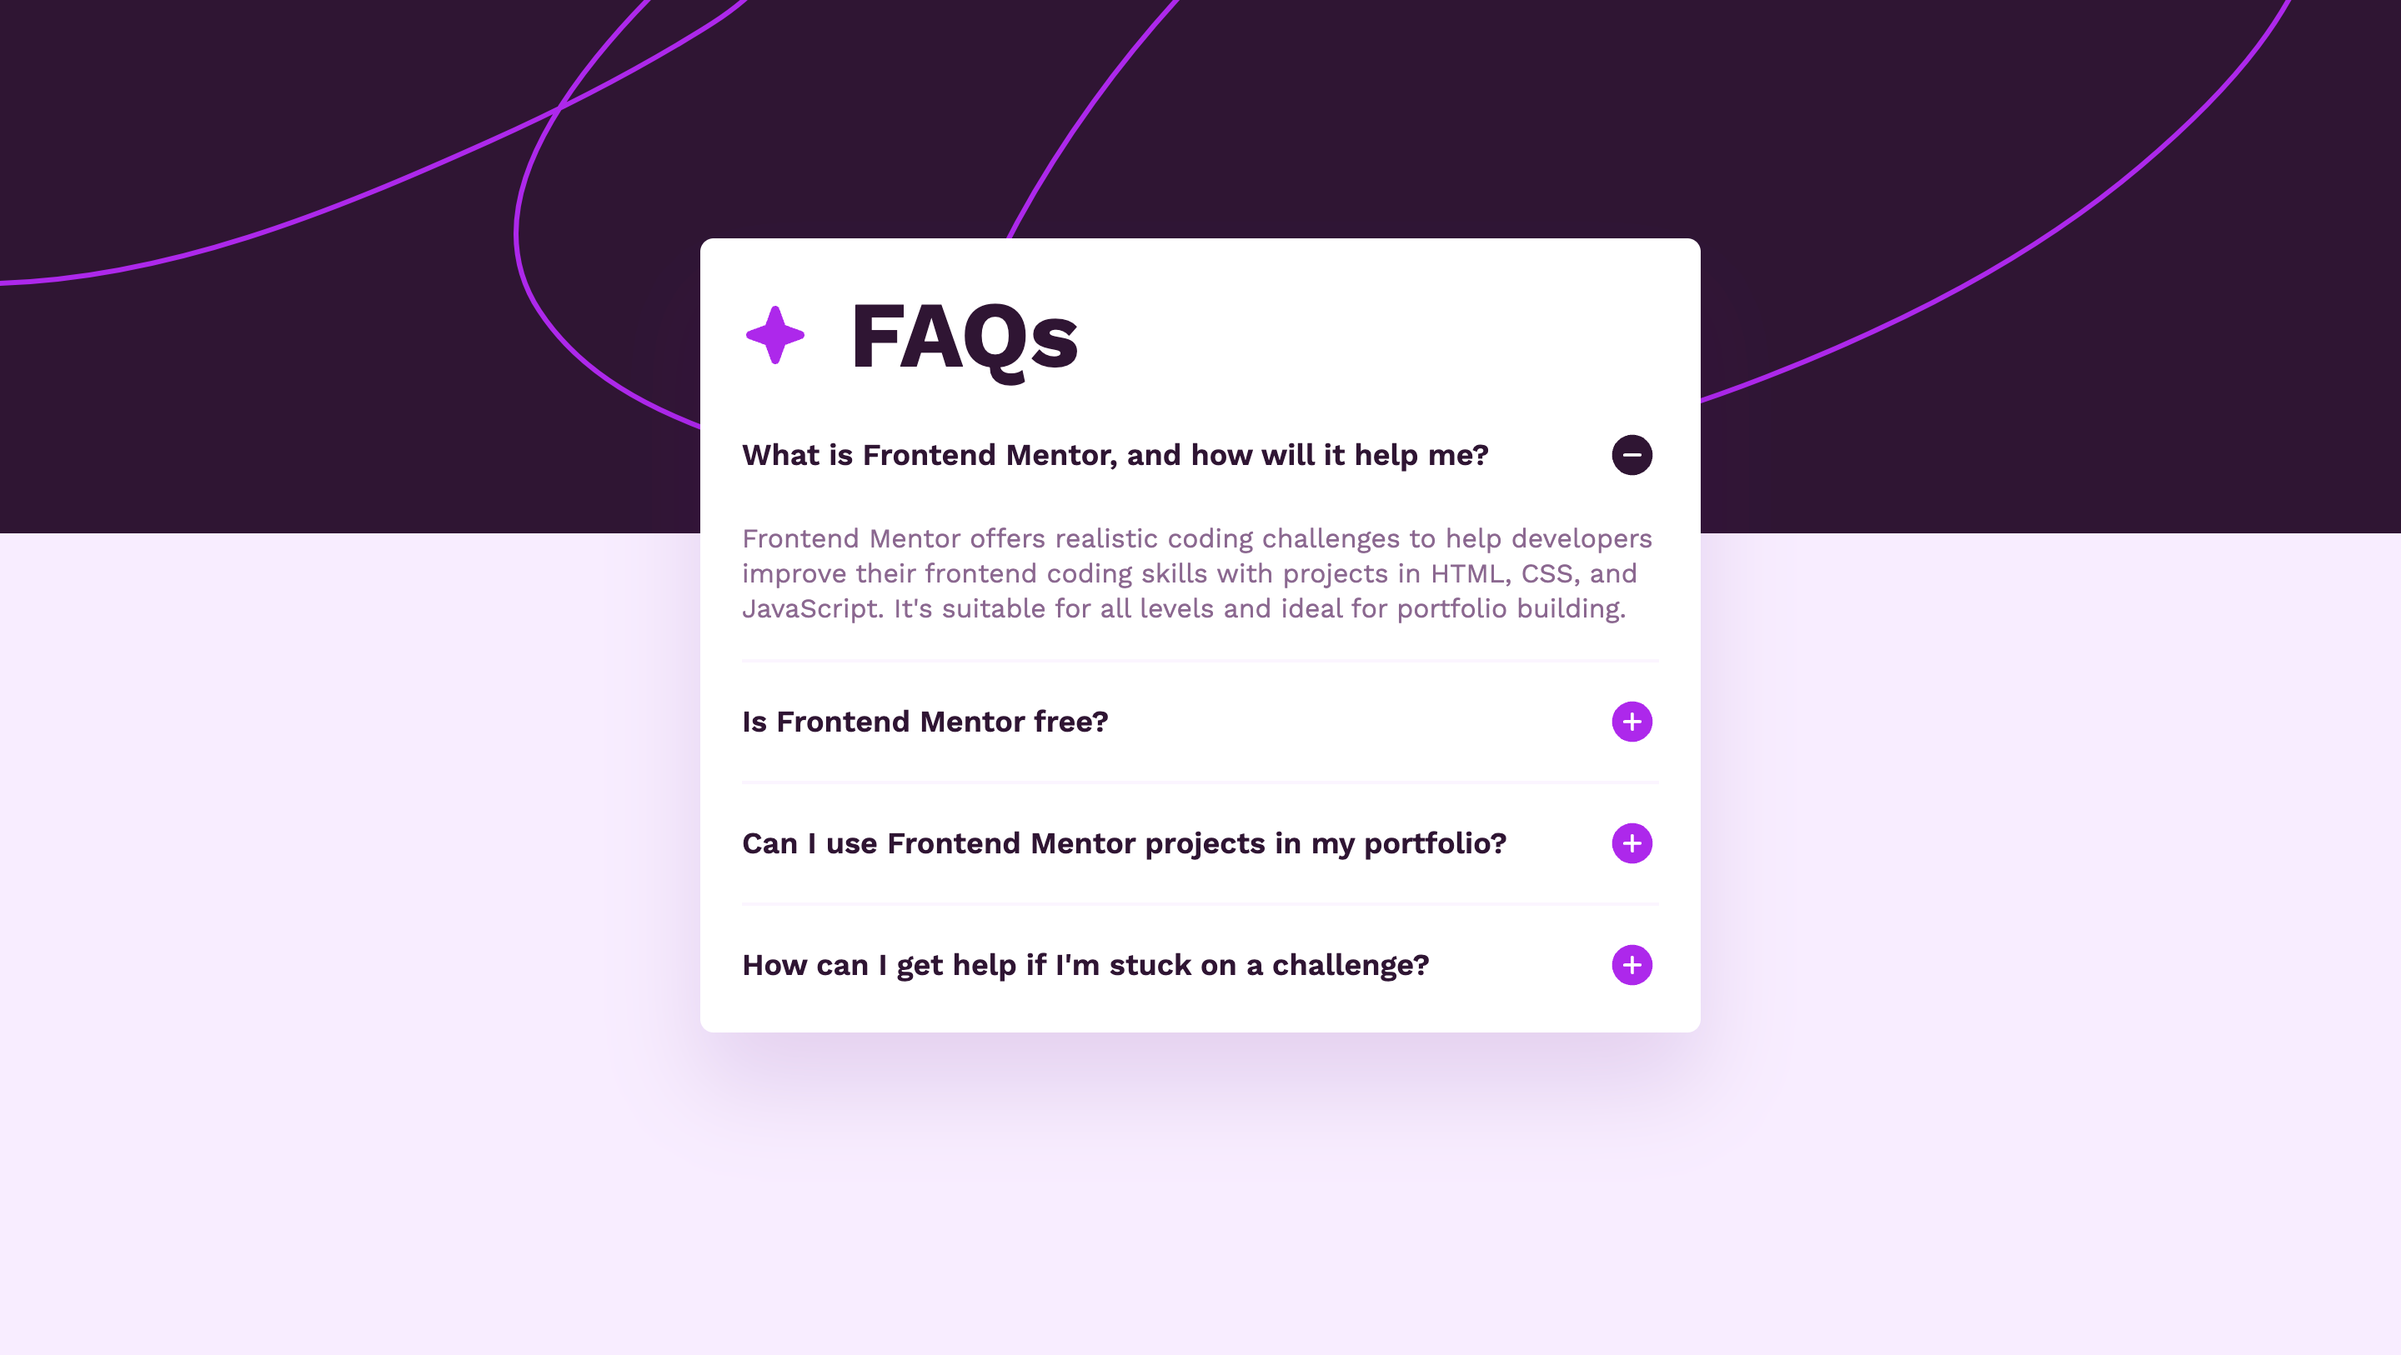
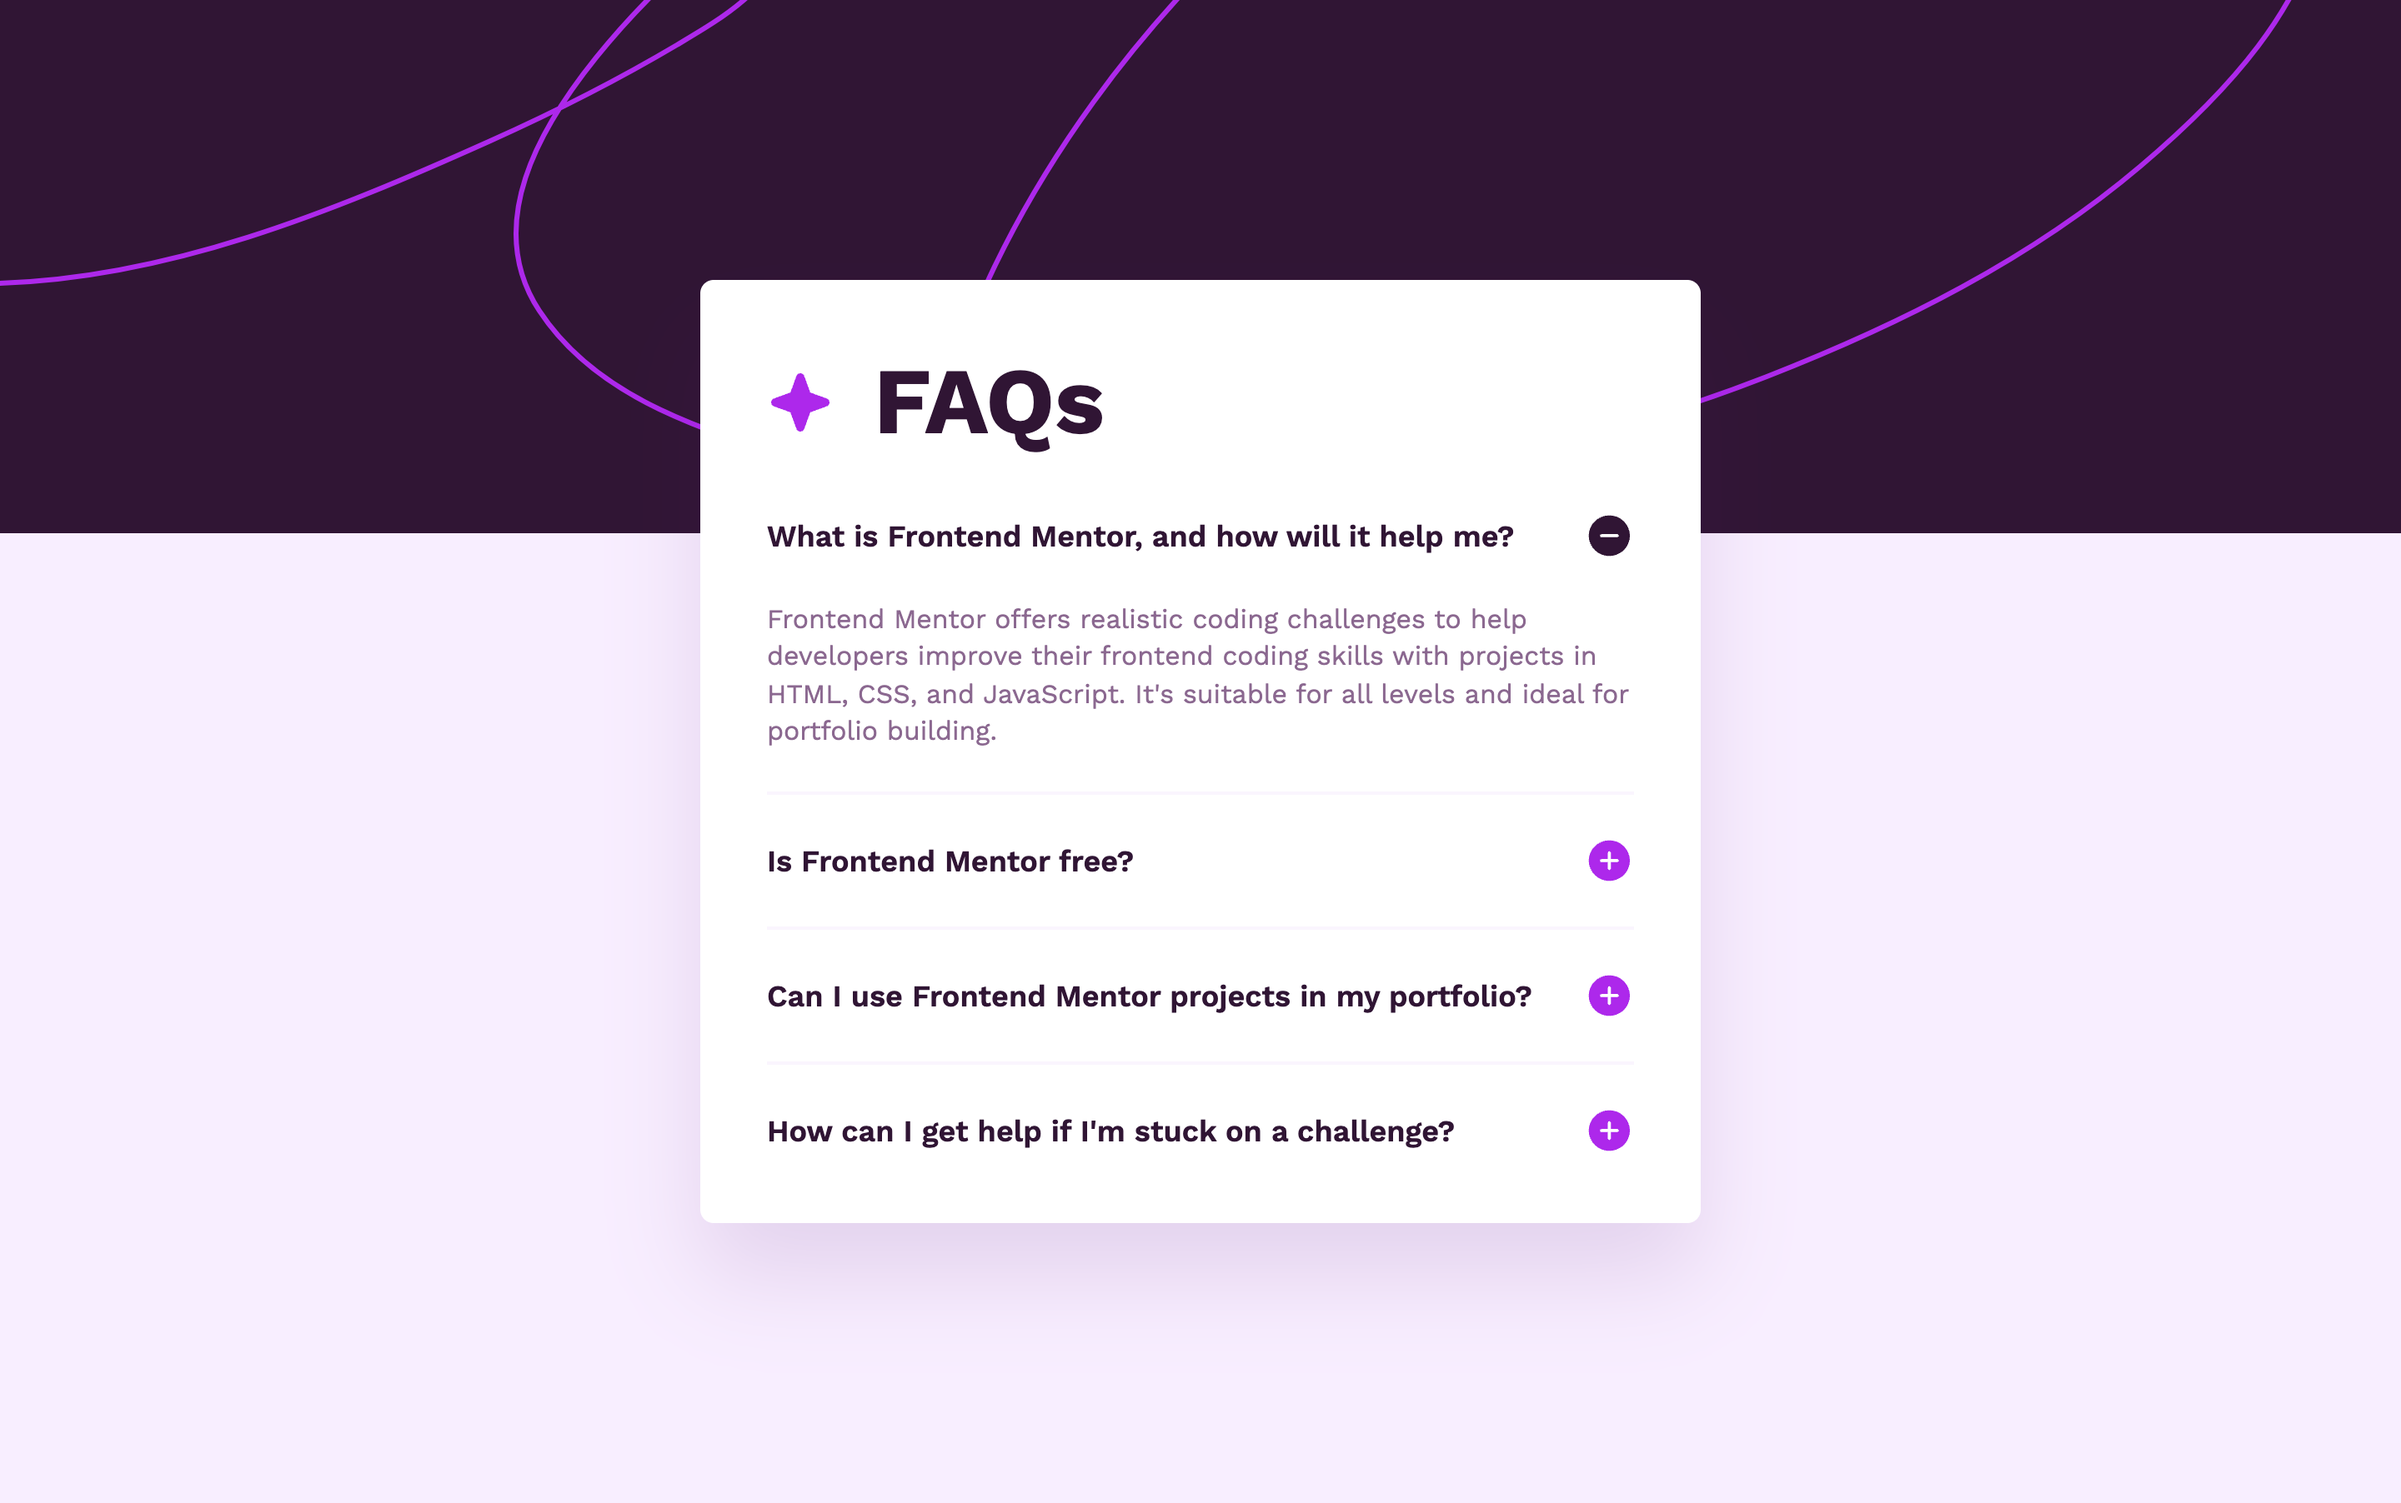
last changes

diff --git a/style.css b/style.css
@@ -107,6 +107,12 @@ span {
     width: calc(100% - 30px - 24px);
 }
 
+@media screen and (min-width: 1024px) {
+    .btn-title {
+        width: calc(100% - 30px);
+    }
+}
+
 .icon_holder {
     background-image: url('./assets/images/icon-plus.svg');
     width: 30px;
